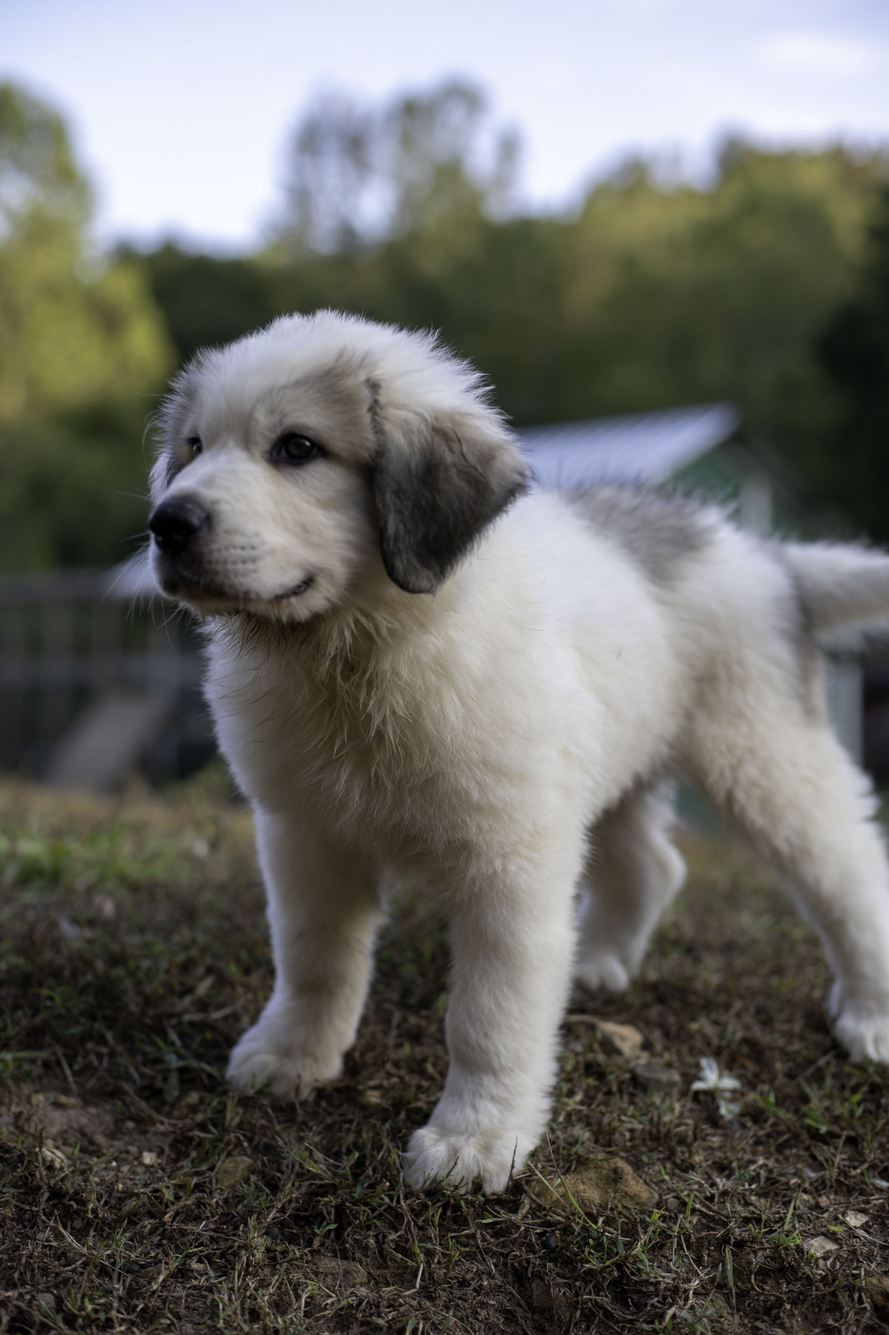
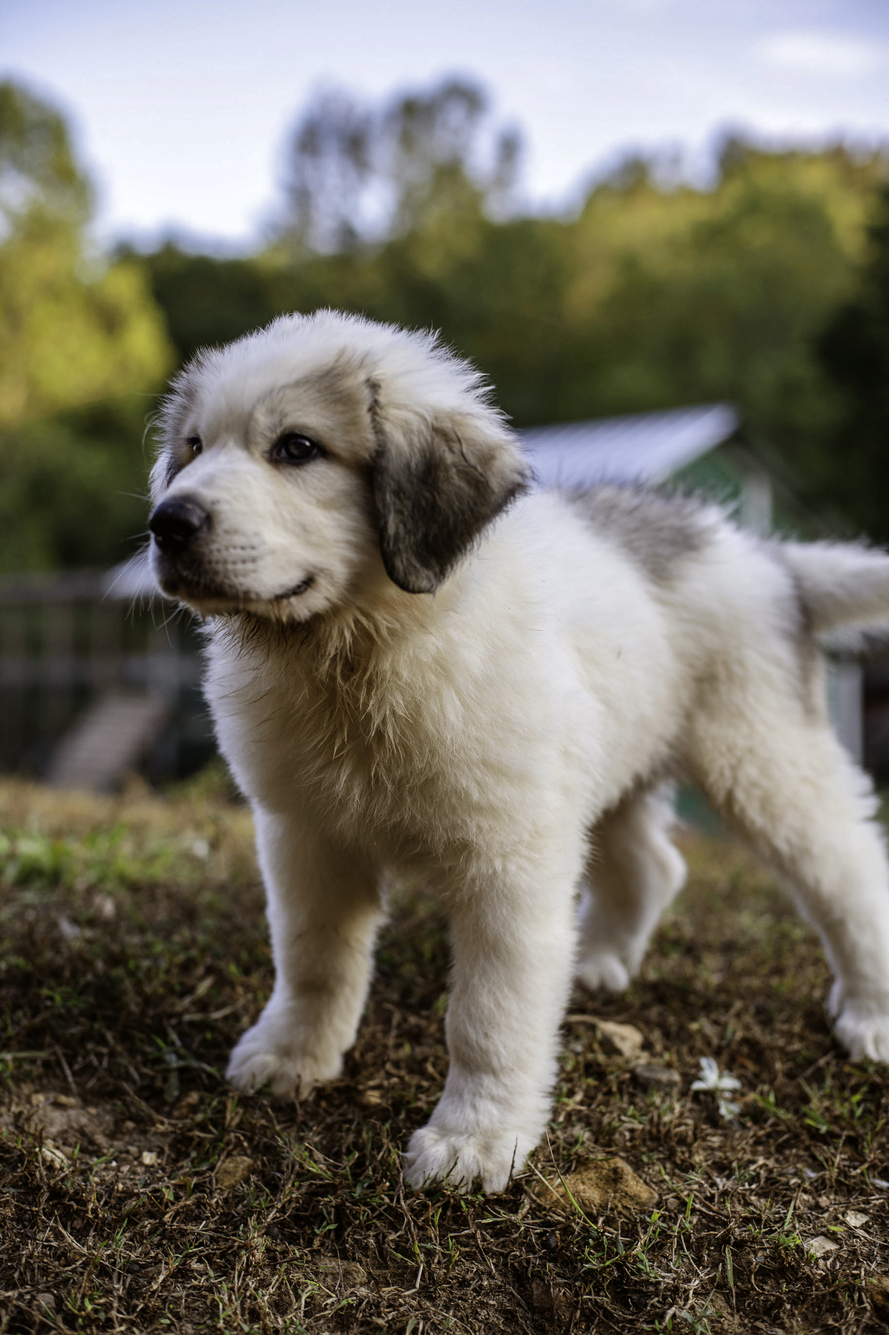
magnus

diff --git a/_posts/2019-10-10-DSC_7086.md b/_posts/2019-10-10-DSC_7086.md
@@ -2,7 +2,7 @@
 layout: techpost
 title: DSC_7086
 ogimage: assets/content/posts/tech/img/DSC_7086.jpg
-tags: [nikon d850,2019 oct]
+tags: [magnus,akc,great pyrenees,dog,nikon d850,2019 oct]
 thumb: assets/content/posts/tech/img/mid/DSC_7086.jpg
 author: Tony Bierman
 exif:
@@ -11,7 +11,10 @@ exif:
     value: 361471/100000
   - entry:
     key: Artist
-    value: TONY BIERMAN; Tony Bierman
+    value: TONY BIERMAN
+  - entry:
+    key: BitsPerSample
+    value: ImageMagick.ExifShortArray
   - entry:
     key: CFAPattern
     value: ImageMagick.ExifByteArray
@@ -32,7 +35,7 @@ exif:
     value: 0
   - entry:
     key: DateTime
-    value: 2019:10:10 17:52:56
+    value: 2019:10:11 13:09:38
   - entry:
     key: DateTimeDigitized
     value: 2019:10:10 17:29:06
@@ -88,11 +91,29 @@ exif:
     key: Height
     value: 2738 pixels
   - entry:
+    key: ImageLength
+    value: 2738
+  - entry:
+    key: ImageWidth
+    value: 1825
+  - entry:
     key: ISOSpeedRatings
     value: 280
   - entry:
     key: Keyword
     value: 2019 Oct
+  - entry:
+    key: Keyword
+    value: akc
+  - entry:
+    key: Keyword
+    value: dog
+  - entry:
+    key: Keyword
+    value: great pyrenees
+  - entry:
+    key: Keyword
+    value: magnus
   - entry:
     key: Keyword
     value: NIKON D850
@@ -118,14 +139,29 @@ exif:
     key: Model
     value: NIKON D850
   - entry:
+    key: Orientation
+    value: Horizontal (normal)
+  - entry:
+    key: PhotometricInterpretation
+    value: RGB
+  - entry:
+    key: PixelXDimension
+    value: 1825
+  - entry:
+    key: PixelYDimension
+    value: 2738
+  - entry:
     key: Quality
-    value: 91
+    value: 99
   - entry:
     key: RecommendedExposureIndex
     value: 280
   - entry:
     key: ResolutionUnit
     value: Inches
+  - entry:
+    key: SamplesPerPixel
+    value: 3
   - entry:
     key: Saturation
     value: Normal
@@ -152,7 +188,7 @@ exif:
     value: 9643856/1000000
   - entry:
     key: Software
-    value: Adobe Photoshop Camera Raw 11.1 (Windows)
+    value: Adobe Photoshop CC 2018 (Windows)
   - entry:
     key: SubjectDistanceRange
     value: Unknown
@@ -170,9 +206,9 @@ exif:
     value: 1825 pixels
   - entry:
     key: XResolution
-    value: 300
+    value: 3000000/10000
   - entry:
     key: YResolution
-    value: 300
+    value: 3000000/10000
 ---
-<p class="h4">Techinical Details for Photo</p>
+<p class="h4">Magnus</p>

diff --git a/tags/dog.md b/tags/dog.md
@@ -20,6 +20,7 @@ photos:
   - assets/content/posts/tech/img/DSC_4959_BW.jpg
   - assets/content/posts/tech/img/DSC_5437_1.jpg
   - assets/content/posts/tech/img/DSC_5678_1.jpg
+  - assets/content/posts/tech/img/DSC_7086.jpg
   - assets/content/posts/tech/img/DSC_7180.jpg
   - assets/content/posts/tech/img/DSC_7184.jpg
   - assets/content/posts/tech/img/DSC_7196.jpg

diff --git a/tags/great+pyrenees.md b/tags/great+pyrenees.md
@@ -5,6 +5,7 @@ title: great pyrenees
 fname: great+pyrenees
 photos:
   - assets/content/posts/tech/img/DSC_5678_1.jpg
+  - assets/content/posts/tech/img/DSC_7086.jpg
   - assets/content/posts/tech/img/DSC_7180.jpg
   - assets/content/posts/tech/img/DSC_7184.jpg
   - assets/content/posts/tech/img/DSC_7196.jpg

diff --git a/tags/akc.md b/tags/akc.md
@@ -5,6 +5,7 @@ title: akc
 fname: akc
 photos:
   - assets/content/posts/tech/img/DSC_5678_1.jpg
+  - assets/content/posts/tech/img/DSC_7086.jpg
   - assets/content/posts/tech/img/DSC_7180.jpg
   - assets/content/posts/tech/img/DSC_7184.jpg
   - assets/content/posts/tech/img/DSC_7196.jpg

diff --git a/tags/magnus.md b/tags/magnus.md
@@ -4,6 +4,7 @@ author: Tony Bierman
 title: magnus
 fname: magnus
 photos:
+  - assets/content/posts/tech/img/DSC_7086.jpg
   - assets/content/posts/tech/img/DSC_7180.jpg
   - assets/content/posts/tech/img/DSC_7184.jpg
   - assets/content/posts/tech/img/DSC_7196.jpg
